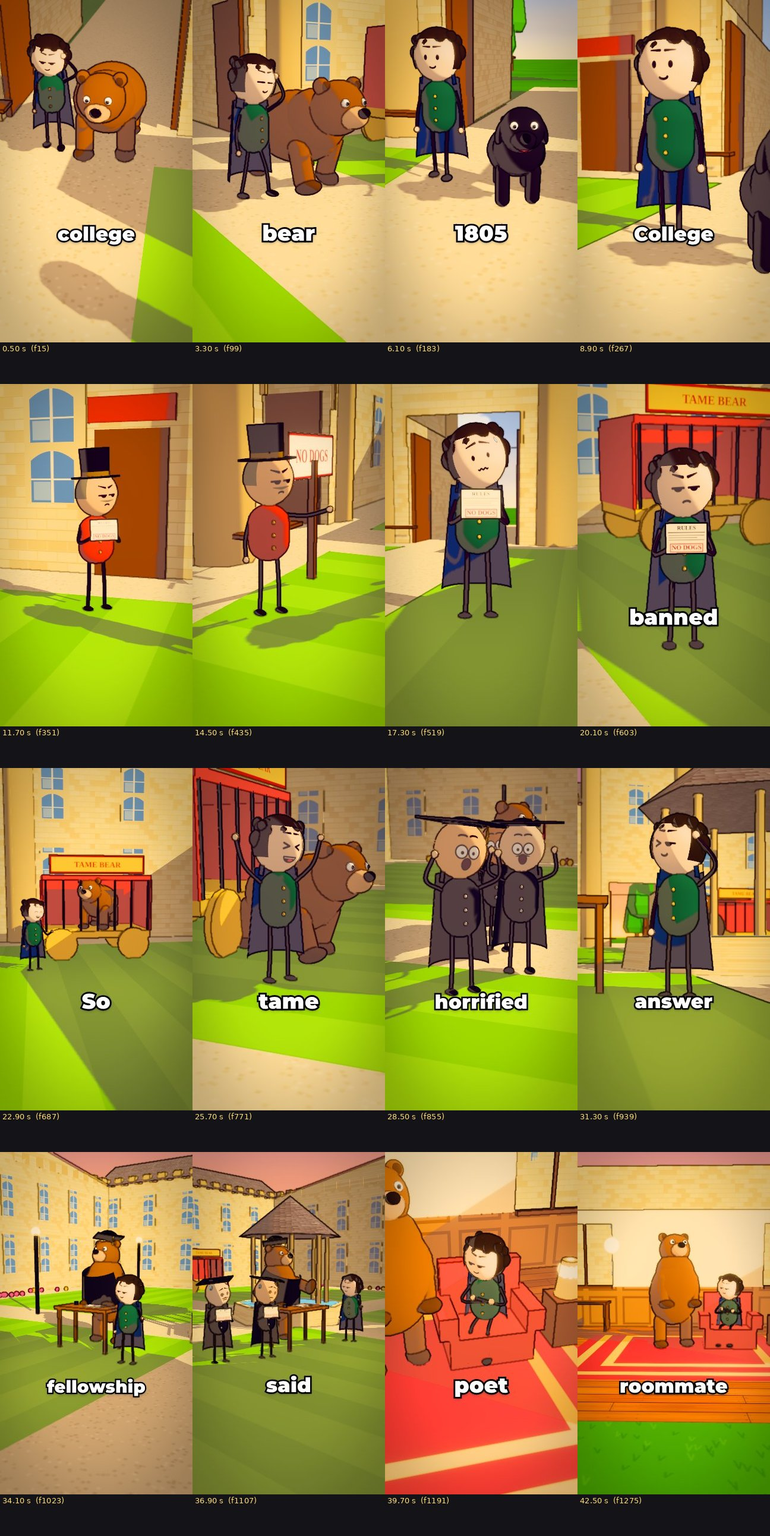
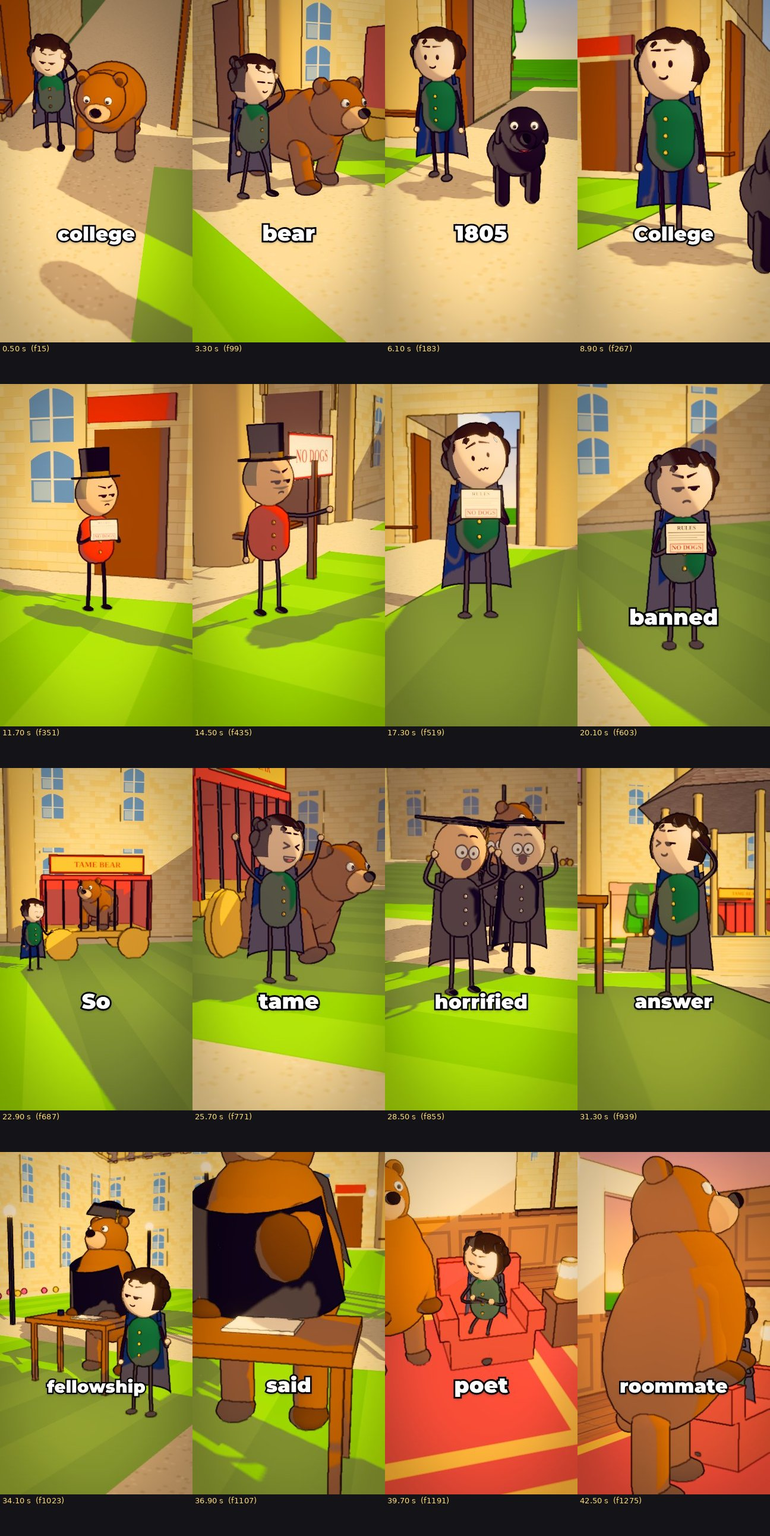
ByronShort: front angle on "rules never said bears" and the ending
Claude-Session: https://claude.ai/code/session_012QSShdiUFjV1rrFH5PNZza

diff --git a/video/src/videos/byron/shots.ts b/video/src/videos/byron/shots.ts
@@ -21,7 +21,7 @@ export const SHOT_SPECS: ShotSpec[] = [
   { t0: land(7), subjects: ["c:byron"], size: "medium", angle: "low", move: "push", enter: "cut", note: "7 Byron has an answer" },
   { t0: land(7, "He"), subjects: ["w:bear", "?c:byron"], size: "medium", move: "push", enter: "cut", note: "7 he should sit for a fellowship (the bear at the desk in gown and cap)" },
   { t0: land(8), subjects: ["c:tutor0", "c:tutor1"], size: "medium", move: "push", enter: "cut", note: "8 they couldn't throw it out (flipping the rule book)" },
-  { t0: land(8, "rules"), subjects: ["w:bear", "?c:tutor0"], size: "medium", move: "drift", enter: "cut", note: "8 the rules never said bears (the bear waves)" },
+  { t0: land(8, "rules"), subjects: ["c:tutor0", "?c:tutor1", "?w:bear"], size: "medium", angle: "front", move: "drift", enter: "cut", note: "8 the rules never said bears (the bear waves)" },
   { t0: land(9), subjects: ["c:byron", "?w:bear"], size: "wide", move: "push", enter: "cut", note: "9 Lord Byron: poet, rebel (his rooms, lamp light)" },
-  { t0: land(9, "and"), subjects: ["w:bear", "c:byron"], size: "medium", move: "drift", enter: "cut", note: "9 and the only student whose roommate had claws" },
+  { t0: land(9, "and"), subjects: ["c:byron", "?w:bear"], size: "medium", angle: "front", move: "drift", enter: "cut", note: "9 and the only student whose roommate had claws" },
 ];
